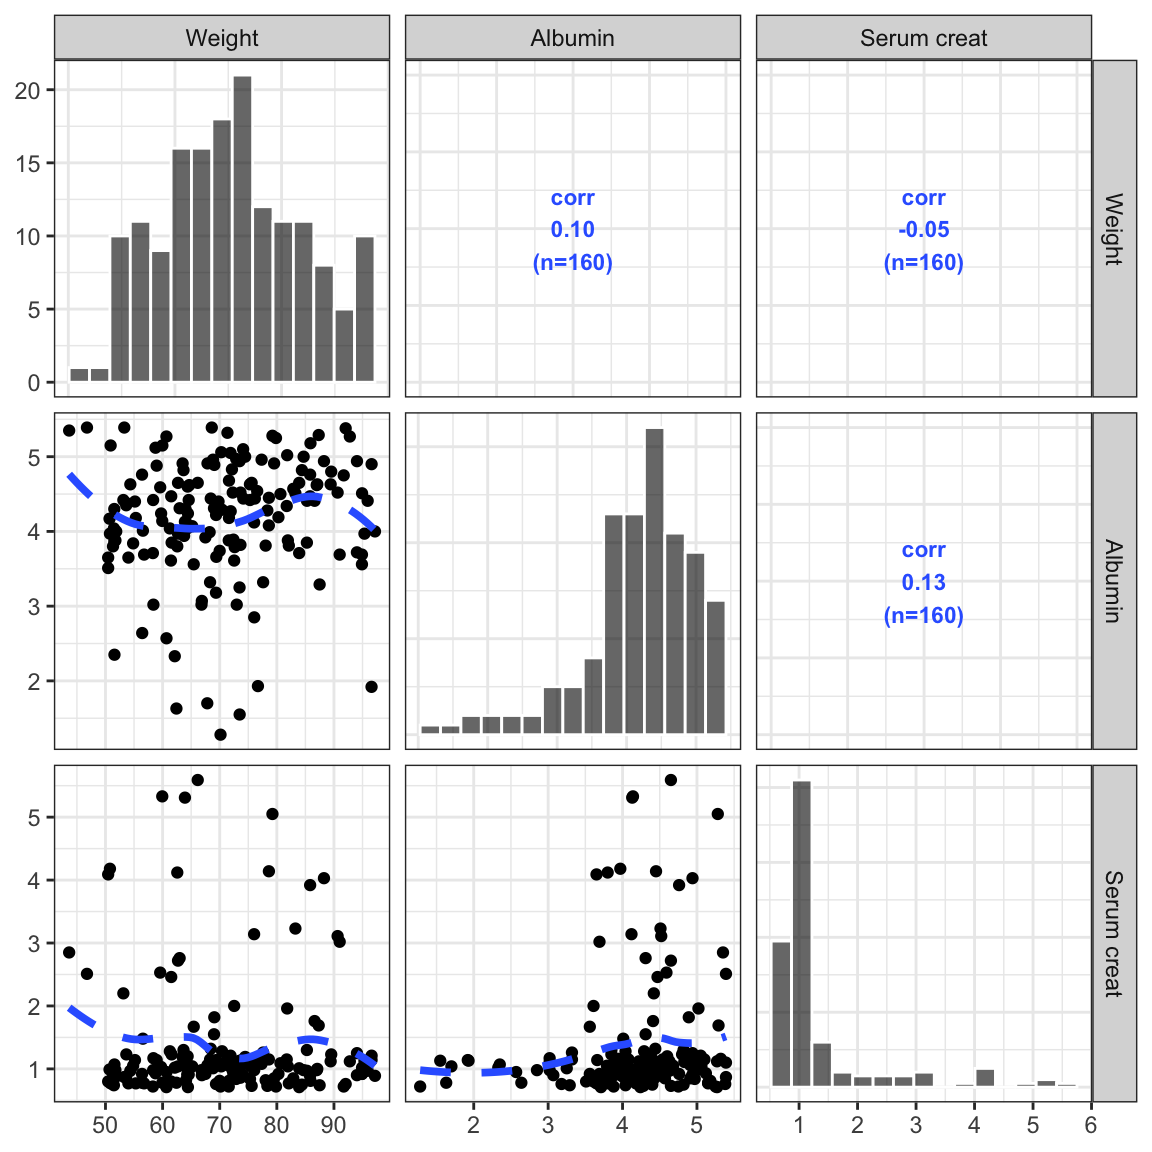
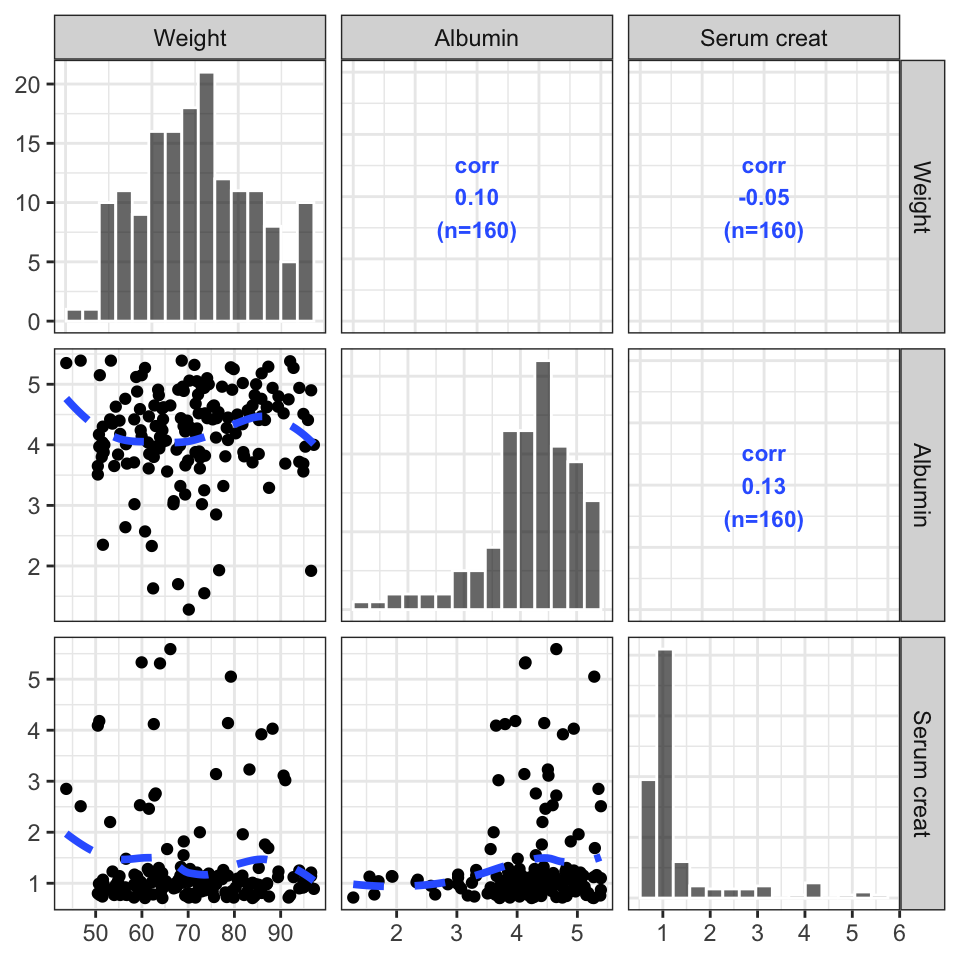
finish tweaking

diff --git a/docs/pairs.html b/docs/pairs.html
@@ -308,16 +308,14 @@ background: #00b4f1;
 <section id="general-pairs-plot" class="level2" data-number="10.1">
 <h2 data-number="10.1" class="anchored" data-anchor-id="general-pairs-plot"><span class="header-section-number">10.1</span> General pairs plot</h2>
 <p>This is a simple wrapper around <code>GGally::ggpairs</code> with some customizations that have been developed internally at MetrumRG over the years.</p>
-<div class="cell">
+<div class="cell" data-layout-align="center">
 <div class="sourceCode cell-code" id="cb1"><pre class="sourceCode r code-with-copy"><code class="sourceCode r"><span id="cb1-1"><a href="#cb1-1" aria-hidden="true" tabindex="-1"></a>cols <span class="ot">&lt;-</span> <span class="fu">c</span>(<span class="st">"WT//Weight"</span>, <span class="st">"ALB//Albumin"</span>, <span class="st">"SCR//Serum creat"</span>)</span>
 <span id="cb1-2"><a href="#cb1-2" aria-hidden="true" tabindex="-1"></a><span class="fu">pairs_plot</span>(id, cols)</span></code><button title="Copy to Clipboard" class="code-copy-button"><i class="bi"></i></button></pre></div>
 <div class="cell-output-display">
-<div id="fig-pairs" class="quarto-figure quarto-figure-center anchored">
+<div class="quarto-figure quarto-figure-center">
 <figure class="figure">
-<figure class="figure">
-<img src="pairs_files/figure-html/fig-pairs-1.png" class="img-fluid figure-img" width="480">
-</figure>
-<p></p><figcaption aria-hidden="true" class="figure-caption">Figure 10.1: General pairs plot.</figcaption><p></p>
+<p><img src="pairs_files/figure-html/unnamed-chunk-1-1.png" class="img-fluid figure-img" width="480"></p>
+<p></p><figcaption aria-hidden="true" class="figure-caption"></figcaption><p></p>
 </figure>
 </div>
 </div>
@@ -331,21 +329,19 @@ background: #00b4f1;
 <section id="customized-lower-triangle" class="level2" data-number="10.3">
 <h2 data-number="10.3" class="anchored" data-anchor-id="customized-lower-triangle"><span class="header-section-number">10.3</span> Customized lower triangle</h2>
 <p>Pass a function that customizes the scatter plots on the lower triangle. This function should accept a gg object and add a geom to it</p>
-<div class="cell">
+<div class="cell" data-layout-align="center">
 <div class="sourceCode cell-code" id="cb2"><pre class="sourceCode r code-with-copy"><code class="sourceCode r"><span id="cb2-1"><a href="#cb2-1" aria-hidden="true" tabindex="-1"></a>my_lower <span class="ot">&lt;-</span> <span class="cf">function</span>(p) {</span>
 <span id="cb2-2"><a href="#cb2-2" aria-hidden="true" tabindex="-1"></a>  p <span class="sc">+</span> <span class="fu">geom_point</span>(<span class="fu">aes</span>(<span class="at">color =</span> STUDYc)) <span class="sc">+</span> </span>
 <span id="cb2-3"><a href="#cb2-3" aria-hidden="true" tabindex="-1"></a>    <span class="fu">geom_smooth</span>(<span class="at">se =</span> <span class="cn">FALSE</span>, <span class="at">color =</span> <span class="st">"black"</span>)</span>
 <span id="cb2-4"><a href="#cb2-4" aria-hidden="true" tabindex="-1"></a>}</span></code><button title="Copy to Clipboard" class="code-copy-button"><i class="bi"></i></button></pre></div>
 </div>
-<div class="cell">
+<div class="cell" data-layout-align="center">
 <div class="sourceCode cell-code" id="cb3"><pre class="sourceCode r code-with-copy"><code class="sourceCode r"><span id="cb3-1"><a href="#cb3-1" aria-hidden="true" tabindex="-1"></a><span class="fu">pairs_plot</span>(id, <span class="fu">c</span>(<span class="st">"WT"</span>, <span class="st">"ALB"</span>), <span class="at">lower_plot =</span> my_lower)</span></code><button title="Copy to Clipboard" class="code-copy-button"><i class="bi"></i></button></pre></div>
 <div class="cell-output-display">
-<div id="fig-pairs-custom-lower" class="quarto-figure quarto-figure-center anchored">
+<div class="quarto-figure quarto-figure-center">
 <figure class="figure">
-<figure class="figure">
-<img src="pairs_files/figure-html/fig-pairs-custom-lower-1.png" class="img-fluid figure-img" width="480">
-</figure>
-<p></p><figcaption aria-hidden="true" class="figure-caption">Figure 10.2: Pairs plot with customized lower triangle.</figcaption><p></p>
+<p><img src="pairs_files/figure-html/unnamed-chunk-3-1.png" class="img-fluid figure-img" width="480"></p>
+<p></p><figcaption aria-hidden="true" class="figure-caption"></figcaption><p></p>
 </figure>
 </div>
 </div>
